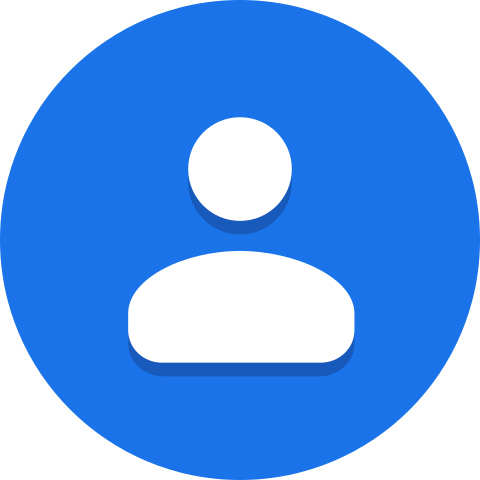
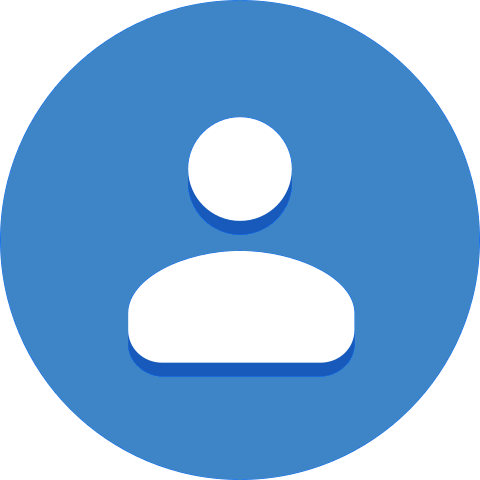
color matching

diff --git a/components/newContactModal.js b/components/newContactModal.js
@@ -77,6 +77,7 @@ const NewContactModal = (props) => {
                   ...styles.openButton,
                   backgroundColor: colors.primary,
                 }}
+                underlayColor={colors.secondary}
                 onPress={() => {
                   props.addCallBack(name);
                 }}

diff --git a/components/reminderList.js b/components/reminderList.js
@@ -30,7 +30,7 @@ const AdditionButton = (props) => {
     <View style={styles.addBtnRow}>
       <TouchableHighlight
         style={styles.addBtn}
-        underlayColor={"#2196F3"}
+        underlayColor={colors.primary}
         onPress={() => {
           return;
         }}
